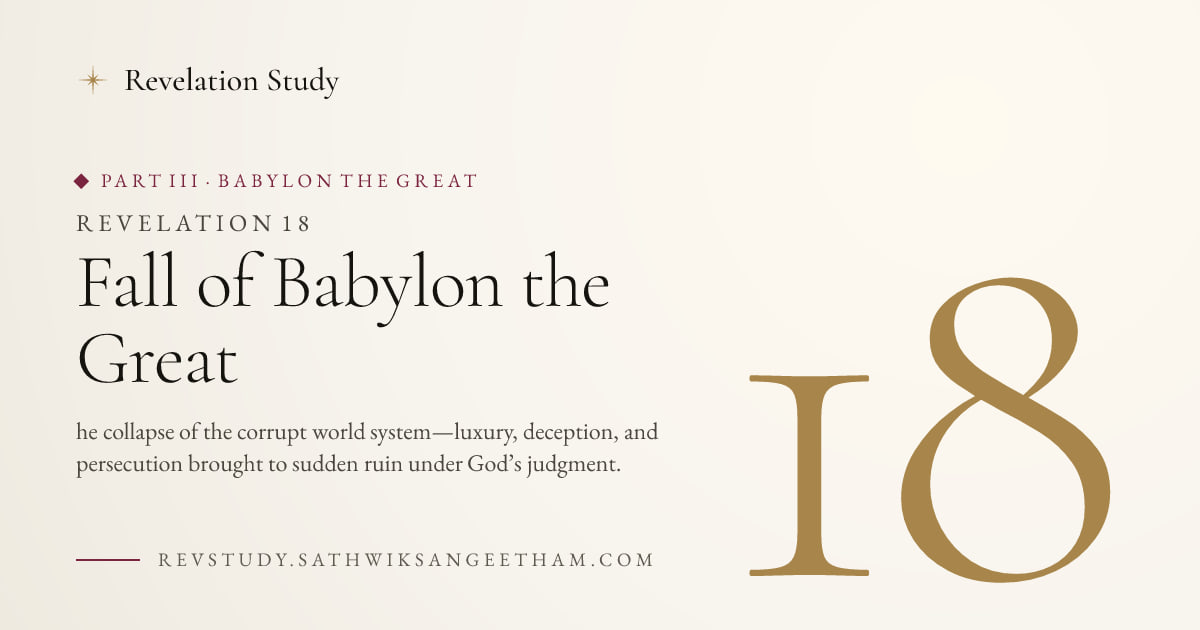
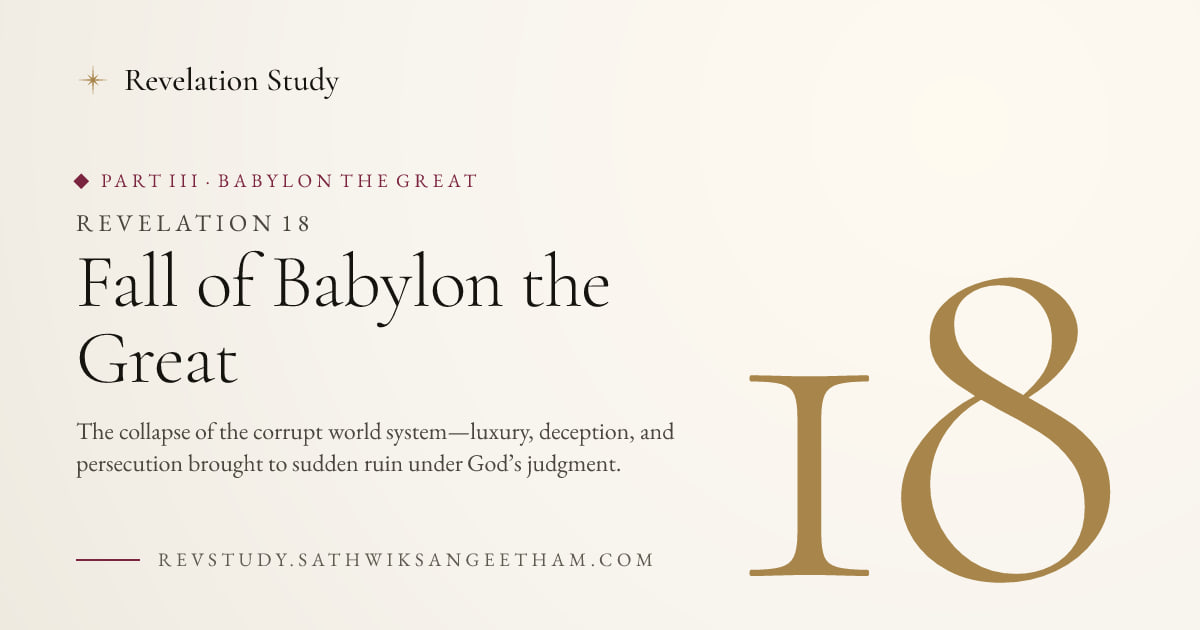
rev.sathwiksangeetham.com, "compiled by", and the Revelation 18 card's typo
- rev.sathwiksangeetham.com: a second Workers Custom Domain; the Worker forwards it (301,
  path and query kept) to revstudy.sathwiksangeetham.com.
- The footer, llms.txt and README say the study is compiled by Sathwik Sangeetham.
- source/: the Revelation 18 card read "he collapse"; it now reads "The collapse", at the
  author's request (README notes it). The share image follows.

Changed region(s): [[0.0617, 0.6635, 0.555, 0.7238]]

diff --git a/worker/index.js b/worker/index.js
@@ -1,8 +1,10 @@
 // Edge entry point for revstudy.sathwiksangeetham.com.
-// Canonicalises every request to https://revstudy.sathwiksangeetham.com, sends the old page
-// addresses (from the original static site) to their new homes, then serves the built site
-// from the static assets binding (./dist).
+// Canonicalises every request to https://revstudy.sathwiksangeetham.com (the short address
+// rev.sathwiksangeetham.com forwards there, path and all), sends the old page addresses (from the
+// original static site) to their new homes, then serves the built site from the static assets
+// binding (./dist).
 const CANONICAL_HOST = 'revstudy.sathwiksangeetham.com';
+const ALIASES = new Set(['rev.sathwiksangeetham.com']);
 
 /** The original site's file names → the new addresses. */
 function legacy(pathname) {
@@ -25,6 +27,7 @@ export default {
 
     const moved = legacy(url.pathname);
     if (moved) return Response.redirect(`https://${CANONICAL_HOST}${moved}${url.search}`, 301);
+    if (ALIASES.has(url.hostname)) return Response.redirect(`https://${CANONICAL_HOST}${url.pathname}${url.search}`, 301);
 
     return env.ASSETS.fetch(request);
   },

diff --git a/source/revelation_study_chapter1.html b/source/revelation_study_chapter1.html
@@ -560,7 +560,7 @@
                 <div class="chapter-card" onclick="window.location.href='revelation_study_chapter18.html#chapter18'">
                     <div class="chapter-number">18</div>
                     <h2 class="chapter-title">Fall of Babylon the Great</h2>
-                    <p class="chapter-description">he collapse of the corrupt world system—luxury, deception, and persecution brought to sudden ruin under God’s judgment.</p>
+                    <p class="chapter-description">The collapse of the corrupt world system—luxury, deception, and persecution brought to sudden ruin under God’s judgment.</p>
                 </div>
 
                 <!-- Chapter 19 -->

diff --git a/src/pages/llms.txt.ts b/src/pages/llms.txt.ts
@@ -12,7 +12,7 @@ export const GET: APIRoute = async () => {
 
 > ${SITE.description}
 
-By ${SITE.author} (${SITE.authorUrl}). Scripture in the study is quoted from the New King James Version unless noted.
+Compiled by ${SITE.author} (${SITE.authorUrl}). Scripture in the study is quoted from the New King James Version unless noted.
 
 ## The timeline
 

diff --git a/README.md b/README.md
@@ -3,12 +3,14 @@
 An in-depth study and commentary on the Book of Revelation, chapters 1 to 22, with a dispensational
 timeline from the Rapture to the Great White Throne.
 
-**Live:** https://revstudy.sathwiksangeetham.com · by [Sathwik Sangeetham](https://sathwiksangeetham.com)
+**Live:** https://revstudy.sathwiksangeetham.com (short address: https://rev.sathwiksangeetham.com) · compiled by [Sathwik Sangeetham](https://sathwiksangeetham.com)
 
 ## How it is built
 
-- `source/` holds the original pages, exactly as they were written. They are the **only** source of
-  the study's text: the site reads them at build time and never retypes a word.
+- `source/` holds the original pages, exactly as they were written (one typo fixed at the author's
+  request: the Revelation 18 card's "he collapse" now reads "The collapse"). They are the **only**
+  source of the study's text: the site reads them at build time and never retypes a word. The
+  original site as it was first published is kept under the tag `original-site`.
 - `src/lib/study.ts` turns each original page into a chapter: curly quotes and en dashes (one
   character for one character), verse-reference headings, "Personal Application" panels, the
   sources, and footnote numbers linked to the sources they name.
